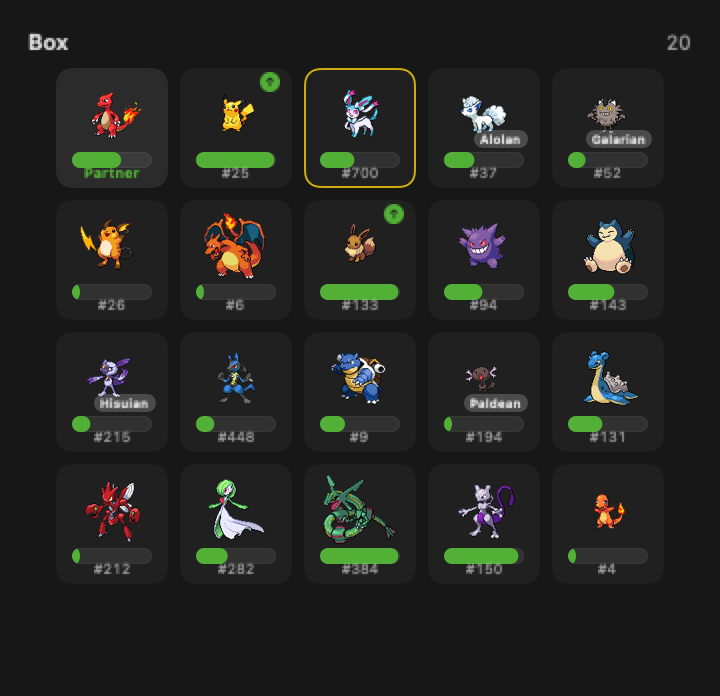
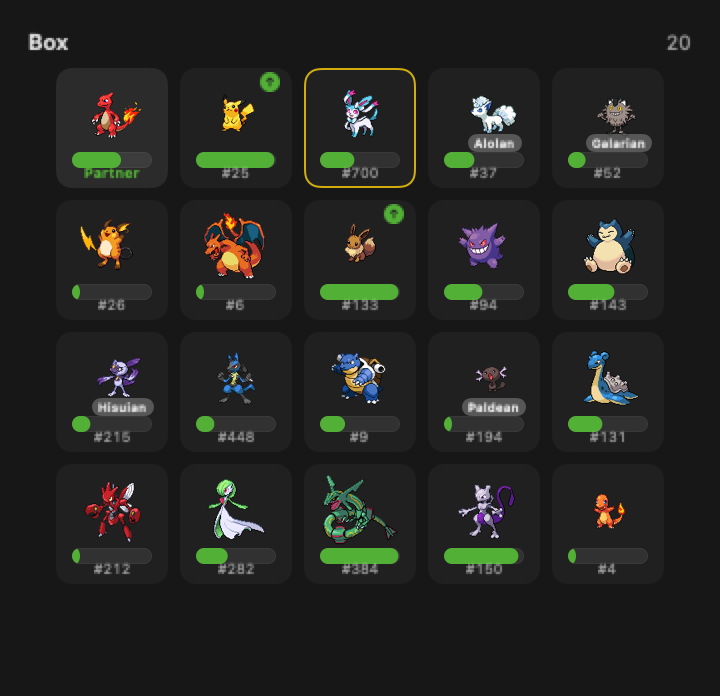
fix: draw dex silhouettes with template rendering, and fit the region badge
brightness(-1) is a CALayer filter, so it vanished in any offscreen render
— the screenshot generator produced dimmed colour sprites instead of
silhouettes. Template rendering happens at draw time and looks the same
on screen. Also clamp the region badge to the cell so "Galarian" stops
spilling past the tile edge.

diff --git a/Sources/PokeDexBar/UI/CompanionView.swift b/Sources/PokeDexBar/UI/CompanionView.swift
@@ -49,6 +49,10 @@ struct SpriteView: View {
     /// 켜면 표시 크기에 맞춰 EPX 로 확대한 뒤 그린다. 기본은 끔 — 도감 썸네일처럼 작은 표시는
     /// 원본 픽셀이 더 또렷하다.
     var antialias: Bool = false
+    /// 켜면 알파만 남기고 새까맣게 그린다(도감의 못 잡은 종). `.brightness(-1)` 로도 같은 그림이
+    /// 나오지만 그건 CALayer 필터라 오프스크린 렌더(스크린샷 생성기)에서 통째로 무시된다 —
+    /// 템플릿 렌더링은 그리기 단계라 어디서든 똑같이 나온다.
+    var silhouette: Bool = false
     @State private var img: NSImage?
     @State private var up = false
     @State private var loadedID: Int?   // img 가 어느 speciesID 것인지(id 변경 시 갱신 판단)
@@ -68,7 +72,7 @@ struct SpriteView: View {
 
     init(speciesID: Int?, form: String? = nil, size: CGFloat = 84, bob: Bool = false,
          animated: Bool = false, shiny: Bool = false, minFrameDelay: TimeInterval = 0,
-         antialias: Bool = false) {
+         antialias: Bool = false, silhouette: Bool = false) {
         self.speciesID = speciesID
         self.form = form
         self.size = size
@@ -77,6 +81,7 @@ struct SpriteView: View {
         self.shiny = shiny
         self.minFrameDelay = minFrameDelay
         self.antialias = antialias
+        self.silhouette = silhouette
         #if DEBUG
         Self.constructionCount += 1
         #endif
@@ -130,8 +135,11 @@ struct SpriteView: View {
                     .scaledToFit()   // 스프라이트마다 원본 비율이 달라 — 정사각형에 늘리면 찌부된다
                     .frame(width: size, height: size)
             } else if let img {
-                Image(nsImage: upscaled(img)).resizable().interpolation(.none)
+                Image(nsImage: upscaled(img))
+                    .renderingMode(silhouette ? .template : .original)
+                    .resizable().interpolation(.none)
                     .scaledToFit()
+                    .foregroundStyle(silhouette ? AnyShapeStyle(.black) : AnyShapeStyle(.tint))
                     .frame(width: size, height: size)
             } else {
                 Text("🥚").font(.system(size: size * 0.62)).frame(width: size, height: size)

diff --git a/Sources/PokeDexBar/UI/BoxTabView.swift b/Sources/PokeDexBar/UI/BoxTabView.swift
@@ -135,11 +135,15 @@ struct BoxCell: View {
                                size: 40, shiny: individual.shiny)
                         .frame(width: 40, height: 40)
                     if let regionLabel {
+                        // 칸 폭(56pt)을 넘지 않게 잠근다 — "Galarian" 처럼 긴 이름이 타일 밖으로
+                        // 삐져나오면 옆 칸과 겹쳐 보인다.
                         Text(regionLabel)
                             .font(.system(size: 6, weight: .bold))
+                            .lineLimit(1).minimumScaleFactor(0.6)
                             .padding(.horizontal, 3).padding(.vertical, 0.5)
-                            .background(Color.secondary.opacity(0.35), in: Capsule())
-                            .offset(x: 2, y: 28)
+                            .background(Color.secondary.opacity(0.45), in: Capsule())
+                            .frame(maxWidth: 50)
+                            .offset(x: 5, y: 30)
                     }
                     // 진화 가능은 칸에서 바로 보여야 한다 — 아니면 개체를 하나씩 열어봐야 안다.
                     if canEvolve {

diff --git a/Sources/PokeDexBar/UI/NationalDexView.swift b/Sources/PokeDexBar/UI/NationalDexView.swift
@@ -38,10 +38,9 @@ struct NationalDexView: View {
     private func cell(_ speciesID: Int) -> some View {
         let caught = store.state.dex.contains(speciesID)
         return VStack(spacing: 1) {
-            SpriteView(speciesID: speciesID, size: 32)
+            // 못 잡은 종은 실루엣 — 모습은 보이되 정체는 가린다.
+            SpriteView(speciesID: speciesID, size: 32, silhouette: !caught)
                 .frame(width: 32, height: 32)
-                // 못 잡은 종은 실루엣 — 모습은 보이되 정체는 가린다.
-                .brightness(caught ? 0 : -1)
                 .opacity(caught ? 1 : 0.55)
             Text("\(speciesID)")
                 .font(.system(size: 7)).monospacedDigit()

diff --git a/Tests/PokeDexBarTests/ScreenshotGenerator.swift b/Tests/PokeDexBarTests/ScreenshotGenerator.swift
@@ -141,6 +141,8 @@ final class ScreenshotGeneratorTests: XCTestCase {
                                         obtainedAt: base.addingTimeInterval(-Double(index) * 3600),
                                         grade: entry.grade)
             individual.region = entry.region
+            // 함께 쓴 토큰 — 오래 데리고 다닌 개체일수록 크게. 0 만 늘어서면 이 칸이 무슨 뜻인지 안 보인다.
+            individual.partnerTokens = entry.exp * 3 + index * 17_000_000
             player.addForTesting(individual)
             if index == 0 { partnerID = individual.id }
             if index == 1 { detailID = individual.id }
